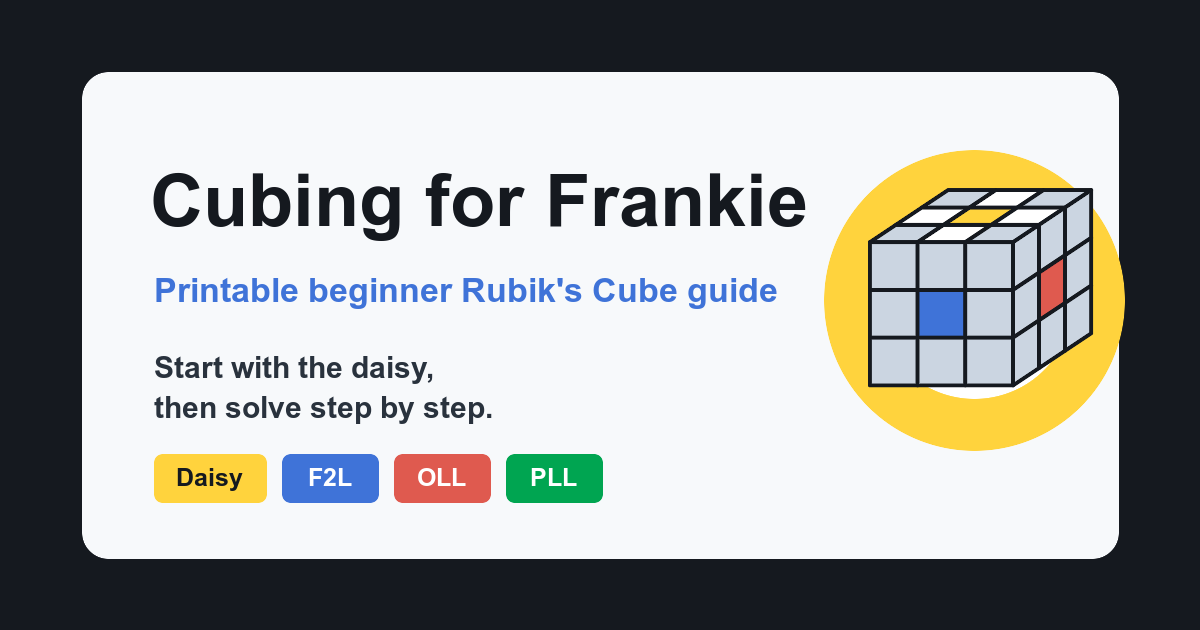
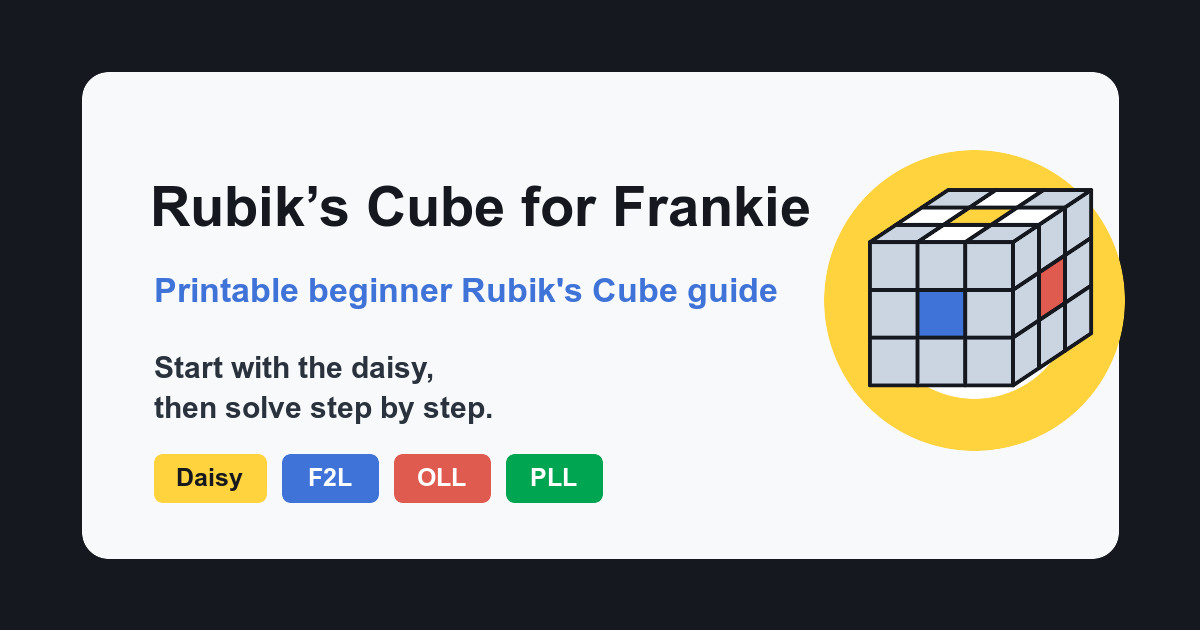
Capitalize Rubik's Cube site title

Changed region(s): [[0.1233, 0.2714, 0.6783, 0.3921]]

diff --git a/index.html b/index.html
@@ -3,7 +3,7 @@
   <head>
     <meta charset="utf-8" />
     <meta name="viewport" content="width=device-width, initial-scale=1" />
-    <title>Cubing for Frankie</title>
+    <title>Rubik’s Cube for Frankie</title>
     <meta
       name="description"
       content="A printable beginner Rubik's Cube guide with typed steps, clear diagrams, and large AnimCube players."
@@ -14,8 +14,8 @@
     <link rel="apple-touch-icon" href="/assets/apple-touch-icon.png" />
     <meta name="theme-color" content="#15191f" />
     <meta property="og:type" content="website" />
-    <meta property="og:site_name" content="Cubing for Frankie" />
-    <meta property="og:title" content="Cubing for Frankie" />
+    <meta property="og:site_name" content="Rubik’s Cube for Frankie" />
+    <meta property="og:title" content="Rubik’s Cube for Frankie" />
     <meta
       property="og:description"
       content="A printable beginner Rubik's Cube guide with typed steps, clear diagrams, and large AnimCube players."
@@ -30,10 +30,10 @@
     <meta property="og:image:height" content="630" />
     <meta
       property="og:image:alt"
-      content="Cubing for Frankie guide with a white daisy around the yellow cube center"
+      content="Rubik’s Cube for Frankie guide with a white daisy around the yellow cube center"
     />
     <meta name="twitter:card" content="summary_large_image" />
-    <meta name="twitter:title" content="Cubing for Frankie" />
+    <meta name="twitter:title" content="Rubik’s Cube for Frankie" />
     <meta
       name="twitter:description"
       content="A printable beginner Rubik's Cube guide with typed steps, clear diagrams, and large AnimCube players."
@@ -44,7 +44,7 @@
     />
     <meta
       name="twitter:image:alt"
-      content="Cubing for Frankie guide with a white daisy around the yellow cube center"
+      content="Rubik’s Cube for Frankie guide with a white daisy around the yellow cube center"
     />
     <script src="vendor/AnimCube3.js?v=2"></script>
     <style>
@@ -1149,7 +1149,7 @@
       <section class="sheet" aria-label="First two layers">
         <header class="sheet-header">
           <div class="sheet-title">
-            <h1>Rubik’s cube for Frankie</h1>
+            <h1>Rubik’s Cube for Frankie</h1>
             <h2>First Two Layers</h2>
           </div>
           <div class="date">3/7/26</div>

diff --git a/README.md b/README.md
@@ -1,4 +1,4 @@
-# Cubing for Frankie
+# Rubik’s Cube for Frankie
 
 Printable HTML version of the two-page handwritten Rubik’s Cube guide, rebuilt with typed text, local SVG cube diagrams, and screen-only AnimCubeJS algorithm players.
 